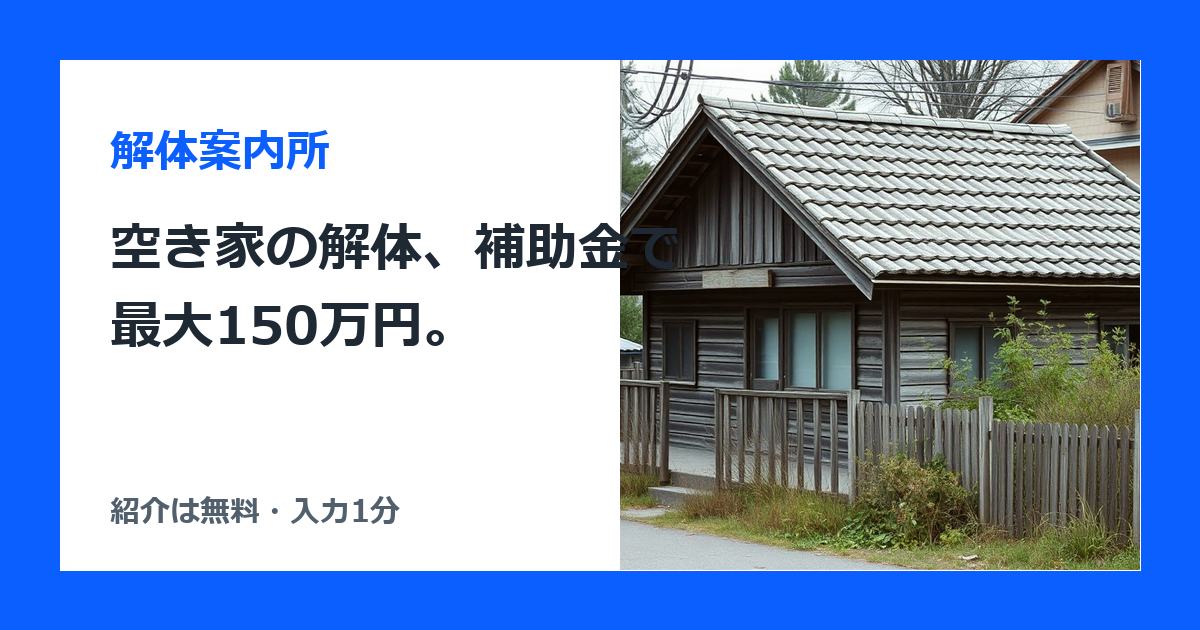
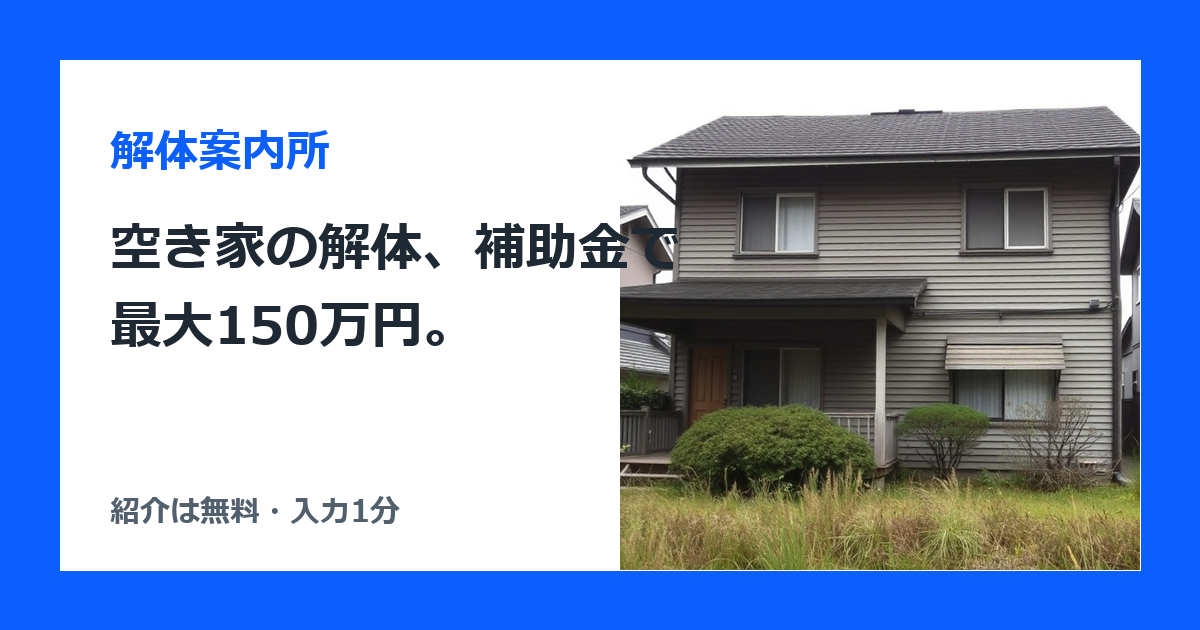
v43: 解体のFV写真をフォームの位置から開始・家が分かる画角に差し替え

Changed region(s): [[0.4933, 0.0905, 0.9558, 0.9048]]

diff --git a/b.html b/b.html
@@ -204,13 +204,15 @@ body.has-sticky{padding-bottom:72px}
 
 /* ---- 視覚モード（visual:true） ---- */
 .v .wrap{max-width:880px}
-.v .hero{display:grid;gap:14px 18px;padding:24px 0 16px;grid-template-areas:"h" "t" "m"}
+.v .hero{display:grid;gap:14px 18px;padding:24px 0 16px;grid-template-areas:"h" "i" "t" "m"}
+.v .hero-intro{grid-area:i}
+.v .hero-intro>:last-child{margin-bottom:0}
 .v .hero>h1{grid-area:h;margin:0}
 .v .hero-text{grid-area:t}
 .v .hero-media{grid-area:m;margin:0;border-radius:16px;overflow:hidden;background:var(--soft);aspect-ratio:16/10}
 .v .hero-media img{display:block;width:100%;height:100%;object-fit:cover}
 .v .hero h1{font-size:27px}
-@media (min-width:800px){.v .hero{grid-template-columns:1.15fr 1fr;grid-template-areas:"h h" "t m";align-items:stretch;padding:36px 0 26px}.v .hero-media{aspect-ratio:auto;height:100%;min-height:320px}.v .hero h1{font-size:30px;line-height:1.35;letter-spacing:-.01em}}
+@media (min-width:800px){.v .hero{grid-template-columns:1.15fr 1fr;grid-template-areas:"h h" "i m" "t m";align-items:stretch;padding:36px 0 26px}.v .hero-media{aspect-ratio:auto;height:100%;min-height:320px}.v .hero h1{font-size:30px;line-height:1.35;letter-spacing:-.01em}}
 .v .checks.two{grid-template-columns:1fr}
 @media (min-width:640px){.v .checks.two{grid-template-columns:1fr 1fr}}
 .v .checks li.ico{padding-left:52px}
@@ -300,7 +302,9 @@ figure.ph figcaption{font-size:13px;color:var(--sub);padding:8px 12px;background
 .v .checks li.has-a details p{margin:0;padding:0 16px 12px 52px;color:var(--sub);font-size:14px;line-height:1.65}
 .v .checks.two{align-items:start}
 @media (min-width:640px){.v .checks.two li.has-a:has(details[open]){grid-column:1 / -1}}
-@media (min-width:800px){.v .hero.has-fvf{grid-template-columns:1fr 1fr}.v .hero-text>.note:last-child{margin-bottom:0}}
+@media (min-width:800px){.v .hero.has-fvf{grid-template-columns:1fr 1fr}.v .hero-text>.note:last-child{margin-bottom:0}
+.v .hero.media-from-form{grid-template-areas:"h h" "i i" "t m"}
+.v .hero.media-from-form .hero-intro{max-width:760px}}
 /* 関係図（HTML）: スマホは縦に積む・PC は横3列 */
 .rel{margin:14px 0 0;background:#fff;border:1px solid var(--line);border-radius:14px;padding:16px 14px;display:grid;gap:10px;justify-items:center;text-align:center}
 .rel-you{background:var(--accent);color:#fff;font-weight:800;font-size:17px;border-radius:12px;padding:14px 26px;min-width:8em}
@@ -364,15 +368,17 @@ figure.ph figcaption{font-size:13px;color:var(--sub);padding:8px 12px;background
 <header><div class="wrap"><div class="brand"><span class="name">解体案内所</span><a class="cta small" href="#form">無料で見積</a></div></div></header>
 
 <div class="wrap">
-<div class="hero has-fvf">
+<div class="hero has-fvf media-from-form">
 <h1>空き家の解体、木造30坪で90万〜200万円。補助金で最大150万円戻ることも。</h1>
-<div class="hero-text">
+<div class="hero-intro">
 <p>差がつくのは、道路・隣家・地中の3つと、補助金を使えるかどうか。補助金を視野に入れた登録業者の明細つき見積を最大3社で並べれば、高い見積に気づけます。完全無料・業者からの営業電話なし。</p>
 <ul class="badges"><li class="ico"><span class="ic"><svg viewBox="0 0 24 24" fill="none" stroke="currentColor" stroke-width="1.8" stroke-linecap="round" stroke-linejoin="round" aria-hidden="true"><path d="M5 12l5 5 9-10"/></svg></span>完全無料</li><li class="ico"><span class="ic"><svg viewBox="0 0 24 24" fill="none" stroke="currentColor" stroke-width="1.8" stroke-linecap="round" stroke-linejoin="round" aria-hidden="true"><circle cx="12" cy="12" r="9"/><path d="M12 7v5l3 2"/></svg></span>入力1分</li><li class="ico"><span class="ic"><svg viewBox="0 0 24 24" fill="none" stroke="currentColor" stroke-width="1.8" stroke-linecap="round" stroke-linejoin="round" aria-hidden="true"><path d="M7 4l5 7 5-7"/><path d="M12 11v9"/><path d="M8 13h8"/><path d="M8 17h8"/></svg></span>補助金に強い登録業者</li><li class="ico"><span class="ic"><svg viewBox="0 0 24 24" fill="none" stroke="currentColor" stroke-width="1.8" stroke-linecap="round" stroke-linejoin="round" aria-hidden="true"><circle cx="12" cy="12" r="9"/><path d="M8 8l8 8M16 8l-8 8"/></svg></span>業者からの営業電話なし</li></ul>
+</div>
+<div class="hero-text">
 <form class="fvf" id="fvform" novalidate><p class="fvf-t">家の条件を選ぶと、概算がその場で出ます</p><div class="fvf-grid"><label><span class="fvf-step">STEP1</span>建物の構造<select name="structure"><option value="">選んでください</option><option>木造</option><option>鉄骨造</option><option>鉄筋コンクリート造</option><option>分からない</option></select></label><label><span class="fvf-step">STEP2</span>延べ床面積の目安<select name="size"><option value="">選んでください</option><option>20坪未満</option><option>20〜30坪</option><option>30〜40坪</option><option>40坪以上</option><option>分からない</option></select></label><div class="fvf-est" id="fvest-box" hidden><p class="fvf-est-t"><b id="fvest-cond"></b>の解体費の目安</p><p class="fvf-est-n" id="fvest-amt"></p><p class="fvf-est-b">本体・処分・養生・付帯・諸経費を含む一般的な幅（公開されている坪単価×坪数）。道路の広さ・隣家との距離・地中の埋設物・アスベストで数倍変わるので、同じ条件で明細つきの見積を3社並べて確かめます。</p><p class="fvf-est-b">補助金は自治体ごと。札幌市は最大150万円、名古屋市は最大40万〜80万円、北九州市は最大30万円の例があります。交付決定の前に契約すると対象外なので、申請→交付決定→契約の順に組みます。</p></div><label><span class="fvf-step">STEP3</span>解体する家のある都道府県<select name="pref"><option value="">選んでください</option><option>北海道</option><option>青森県</option><option>岩手県</option><option>宮城県</option><option>秋田県</option><option>山形県</option><option>福島県</option><option>茨城県</option><option>栃木県</option><option>群馬県</option><option>埼玉県</option><option>千葉県</option><option>東京都</option><option>神奈川県</option><option>新潟県</option><option>富山県</option><option>石川県</option><option>福井県</option><option>山梨県</option><option>長野県</option><option>岐阜県</option><option>静岡県</option><option>愛知県</option><option>三重県</option><option>滋賀県</option><option>京都府</option><option>大阪府</option><option>兵庫県</option><option>奈良県</option><option>和歌山県</option><option>鳥取県</option><option>島根県</option><option>岡山県</option><option>広島県</option><option>山口県</option><option>徳島県</option><option>香川県</option><option>愛媛県</option><option>高知県</option><option>福岡県</option><option>佐賀県</option><option>長崎県</option><option>熊本県</option><option>大分県</option><option>宮崎県</option><option>鹿児島県</option><option>沖縄県</option></select></label></div><button type="submit" class="cta fvf-btn" data-cta="fv_form">概算を見る</button><p class="note fvf-note">業者からの営業電話はありません。断るときは、事務局が代わりに伝えます。</p><script type="application/json" id="fvest">{"f1": "structure", "f2": "size", "fallback": "木造", "labels": {"分からない": "30坪の場合"}, "matrix": {"木造": {"20坪未満": "45万〜140万円", "20〜30坪": "60万〜200万円", "30〜40坪": "90万〜280万円", "40坪以上": "120万円〜", "分からない": "90万〜200万円"}, "鉄骨造": {"20坪未満": "45万〜120万円", "20〜30坪": "60万〜180万円", "30〜40坪": "90万〜240万円", "40坪以上": "120万円〜", "分からない": "90万〜180万円"}, "鉄筋コンクリート造": {"20坪未満": "60万〜240万円", "20〜30坪": "80万〜360万円", "30〜40坪": "120万〜480万円", "40坪以上": "160万円〜", "分からない": "120万〜360万円"}}, "see": "概算を見る", "submit": "この条件で、無料で見積を手配する"}</script></form>
 <p class="note">※補助金の上限は札幌市（地域連携型・2026年度）の例。制度と上限は自治体ごとに違い、交付決定より前に契約した工事は対象外です。完全無料。しつこい営業はしないよう、対応事業者と取り決めています。</p>
 </div>
-<figure class="hero-media"><img src="img/hero_house.jpg" alt="長く空き家になっている木造の家（イメージ）" width="1344" height="768" srcset="img/hero_house-720.jpg 720w, img/hero_house.jpg 1400w" sizes="(max-width: 800px) 100vw, 880px" fetchpriority="high"></figure>
+<figure class="hero-media"><img src="img/hero_house.jpg" alt="長く空き家になっている木造の家（イメージ）" width="1080" height="1350" srcset="img/hero_house-720.jpg 720w, img/hero_house.jpg 1400w" sizes="(max-width: 800px) 100vw, 880px" fetchpriority="high"></figure>
 </div>
 
 <section id="pain" data-sec="pain">

diff --git a/index.html b/index.html
@@ -204,13 +204,15 @@ body.has-sticky{padding-bottom:72px}
 
 /* ---- 視覚モード（visual:true） ---- */
 .v .wrap{max-width:880px}
-.v .hero{display:grid;gap:14px 18px;padding:24px 0 16px;grid-template-areas:"h" "t" "m"}
+.v .hero{display:grid;gap:14px 18px;padding:24px 0 16px;grid-template-areas:"h" "i" "t" "m"}
+.v .hero-intro{grid-area:i}
+.v .hero-intro>:last-child{margin-bottom:0}
 .v .hero>h1{grid-area:h;margin:0}
 .v .hero-text{grid-area:t}
 .v .hero-media{grid-area:m;margin:0;border-radius:16px;overflow:hidden;background:var(--soft);aspect-ratio:16/10}
 .v .hero-media img{display:block;width:100%;height:100%;object-fit:cover}
 .v .hero h1{font-size:27px}
-@media (min-width:800px){.v .hero{grid-template-columns:1.15fr 1fr;grid-template-areas:"h h" "t m";align-items:stretch;padding:36px 0 26px}.v .hero-media{aspect-ratio:auto;height:100%;min-height:320px}.v .hero h1{font-size:30px;line-height:1.35;letter-spacing:-.01em}}
+@media (min-width:800px){.v .hero{grid-template-columns:1.15fr 1fr;grid-template-areas:"h h" "i m" "t m";align-items:stretch;padding:36px 0 26px}.v .hero-media{aspect-ratio:auto;height:100%;min-height:320px}.v .hero h1{font-size:30px;line-height:1.35;letter-spacing:-.01em}}
 .v .checks.two{grid-template-columns:1fr}
 @media (min-width:640px){.v .checks.two{grid-template-columns:1fr 1fr}}
 .v .checks li.ico{padding-left:52px}
@@ -300,7 +302,9 @@ figure.ph figcaption{font-size:13px;color:var(--sub);padding:8px 12px;background
 .v .checks li.has-a details p{margin:0;padding:0 16px 12px 52px;color:var(--sub);font-size:14px;line-height:1.65}
 .v .checks.two{align-items:start}
 @media (min-width:640px){.v .checks.two li.has-a:has(details[open]){grid-column:1 / -1}}
-@media (min-width:800px){.v .hero.has-fvf{grid-template-columns:1fr 1fr}.v .hero-text>.note:last-child{margin-bottom:0}}
+@media (min-width:800px){.v .hero.has-fvf{grid-template-columns:1fr 1fr}.v .hero-text>.note:last-child{margin-bottom:0}
+.v .hero.media-from-form{grid-template-areas:"h h" "i i" "t m"}
+.v .hero.media-from-form .hero-intro{max-width:760px}}
 /* 関係図（HTML）: スマホは縦に積む・PC は横3列 */
 .rel{margin:14px 0 0;background:#fff;border:1px solid var(--line);border-radius:14px;padding:16px 14px;display:grid;gap:10px;justify-items:center;text-align:center}
 .rel-you{background:var(--accent);color:#fff;font-weight:800;font-size:17px;border-radius:12px;padding:14px 26px;min-width:8em}
@@ -364,15 +368,17 @@ figure.ph figcaption{font-size:13px;color:var(--sub);padding:8px 12px;background
 <header><div class="wrap"><div class="brand"><span class="name">解体案内所</span><a class="cta small" href="#form">無料で見積</a></div></div></header>
 
 <div class="wrap">
-<div class="hero has-fvf">
+<div class="hero has-fvf media-from-form">
 <h1>空き家の解体、補助金で最大150万円。</h1>
-<div class="hero-text">
+<div class="hero-intro">
 <p>自治体の解体補助金は、札幌市の例で最大150万円。補助金を視野に入れた登録業者から、明細つきの見積を最大3社手配します。完全無料。業者からの営業電話はありません。</p>
 <ul class="badges"><li class="ico"><span class="ic"><svg viewBox="0 0 24 24" fill="none" stroke="currentColor" stroke-width="1.8" stroke-linecap="round" stroke-linejoin="round" aria-hidden="true"><path d="M5 12l5 5 9-10"/></svg></span>完全無料</li><li class="ico"><span class="ic"><svg viewBox="0 0 24 24" fill="none" stroke="currentColor" stroke-width="1.8" stroke-linecap="round" stroke-linejoin="round" aria-hidden="true"><circle cx="12" cy="12" r="9"/><path d="M12 7v5l3 2"/></svg></span>入力1分</li><li class="ico"><span class="ic"><svg viewBox="0 0 24 24" fill="none" stroke="currentColor" stroke-width="1.8" stroke-linecap="round" stroke-linejoin="round" aria-hidden="true"><path d="M7 4l5 7 5-7"/><path d="M12 11v9"/><path d="M8 13h8"/><path d="M8 17h8"/></svg></span>補助金に強い登録業者</li><li class="ico"><span class="ic"><svg viewBox="0 0 24 24" fill="none" stroke="currentColor" stroke-width="1.8" stroke-linecap="round" stroke-linejoin="round" aria-hidden="true"><circle cx="12" cy="12" r="9"/><path d="M8 8l8 8M16 8l-8 8"/></svg></span>業者からの営業電話なし</li></ul>
+</div>
+<div class="hero-text">
 <form class="fvf" id="fvform" novalidate><p class="fvf-t">家の条件を選ぶと、概算がその場で出ます</p><div class="fvf-grid"><label><span class="fvf-step">STEP1</span>建物の構造<select name="structure"><option value="">選んでください</option><option>木造</option><option>鉄骨造</option><option>鉄筋コンクリート造</option><option>分からない</option></select></label><label><span class="fvf-step">STEP2</span>延べ床面積の目安<select name="size"><option value="">選んでください</option><option>20坪未満</option><option>20〜30坪</option><option>30〜40坪</option><option>40坪以上</option><option>分からない</option></select></label><div class="fvf-est" id="fvest-box" hidden><p class="fvf-est-t"><b id="fvest-cond"></b>の解体費の目安</p><p class="fvf-est-n" id="fvest-amt"></p><p class="fvf-est-b">本体・処分・養生・付帯・諸経費を含む一般的な幅（公開されている坪単価×坪数）。道路の広さ・隣家との距離・地中の埋設物・アスベストで数倍変わるので、同じ条件で明細つきの見積を3社並べて確かめます。</p><p class="fvf-est-b">補助金は自治体ごと。札幌市は最大150万円、名古屋市は最大40万〜80万円、北九州市は最大30万円の例があります。交付決定の前に契約すると対象外なので、申請→交付決定→契約の順に組みます。</p></div><label><span class="fvf-step">STEP3</span>解体する家のある都道府県<select name="pref"><option value="">選んでください</option><option>北海道</option><option>青森県</option><option>岩手県</option><option>宮城県</option><option>秋田県</option><option>山形県</option><option>福島県</option><option>茨城県</option><option>栃木県</option><option>群馬県</option><option>埼玉県</option><option>千葉県</option><option>東京都</option><option>神奈川県</option><option>新潟県</option><option>富山県</option><option>石川県</option><option>福井県</option><option>山梨県</option><option>長野県</option><option>岐阜県</option><option>静岡県</option><option>愛知県</option><option>三重県</option><option>滋賀県</option><option>京都府</option><option>大阪府</option><option>兵庫県</option><option>奈良県</option><option>和歌山県</option><option>鳥取県</option><option>島根県</option><option>岡山県</option><option>広島県</option><option>山口県</option><option>徳島県</option><option>香川県</option><option>愛媛県</option><option>高知県</option><option>福岡県</option><option>佐賀県</option><option>長崎県</option><option>熊本県</option><option>大分県</option><option>宮崎県</option><option>鹿児島県</option><option>沖縄県</option></select></label></div><button type="submit" class="cta fvf-btn" data-cta="fv_form">概算を見る</button><p class="note fvf-note">業者からの営業電話はありません。断るときは、事務局が代わりに伝えます。</p><script type="application/json" id="fvest">{"f1": "structure", "f2": "size", "fallback": "木造", "labels": {"分からない": "30坪の場合"}, "matrix": {"木造": {"20坪未満": "45万〜140万円", "20〜30坪": "60万〜200万円", "30〜40坪": "90万〜280万円", "40坪以上": "120万円〜", "分からない": "90万〜200万円"}, "鉄骨造": {"20坪未満": "45万〜120万円", "20〜30坪": "60万〜180万円", "30〜40坪": "90万〜240万円", "40坪以上": "120万円〜", "分からない": "90万〜180万円"}, "鉄筋コンクリート造": {"20坪未満": "60万〜240万円", "20〜30坪": "80万〜360万円", "30〜40坪": "120万〜480万円", "40坪以上": "160万円〜", "分からない": "120万〜360万円"}}, "see": "概算を見る", "submit": "この条件で、無料で見積を手配する"}</script></form>
 <p class="note">※補助金の上限は札幌市（地域連携型・2026年度）の例。制度と上限は自治体ごとに違い、交付決定より前に契約した工事は対象外です。完全無料。しつこい営業はしないよう、対応事業者と取り決めています。</p>
 </div>
-<figure class="hero-media"><img src="img/hero_house.jpg" alt="長く空き家になっている木造の家（イメージ）" width="1344" height="768" srcset="img/hero_house-720.jpg 720w, img/hero_house.jpg 1400w" sizes="(max-width: 800px) 100vw, 880px" fetchpriority="high"></figure>
+<figure class="hero-media"><img src="img/hero_house.jpg" alt="長く空き家になっている木造の家（イメージ）" width="1080" height="1350" srcset="img/hero_house-720.jpg 720w, img/hero_house.jpg 1400w" sizes="(max-width: 800px) 100vw, 880px" fetchpriority="high"></figure>
 </div>
 
 <section id="pain" data-sec="pain">
